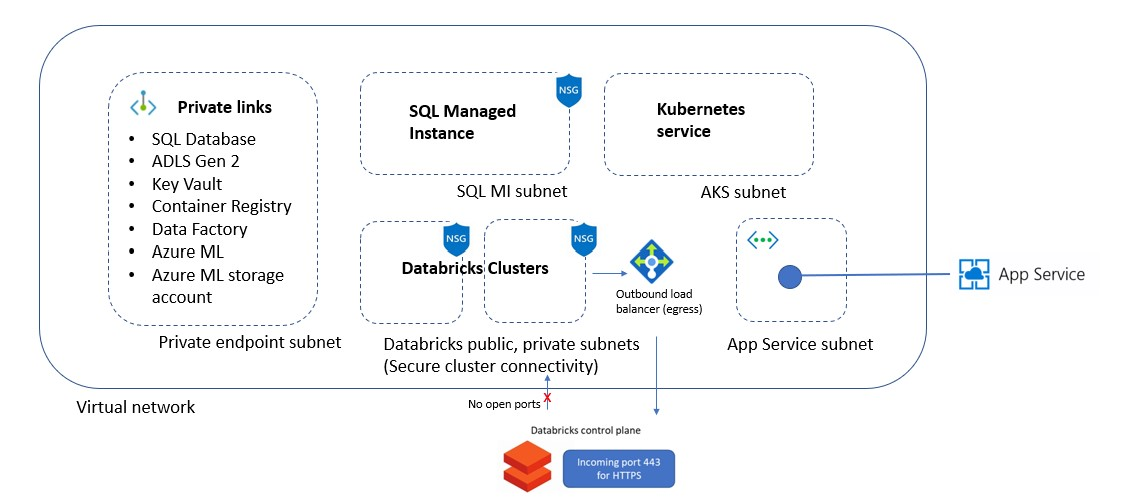
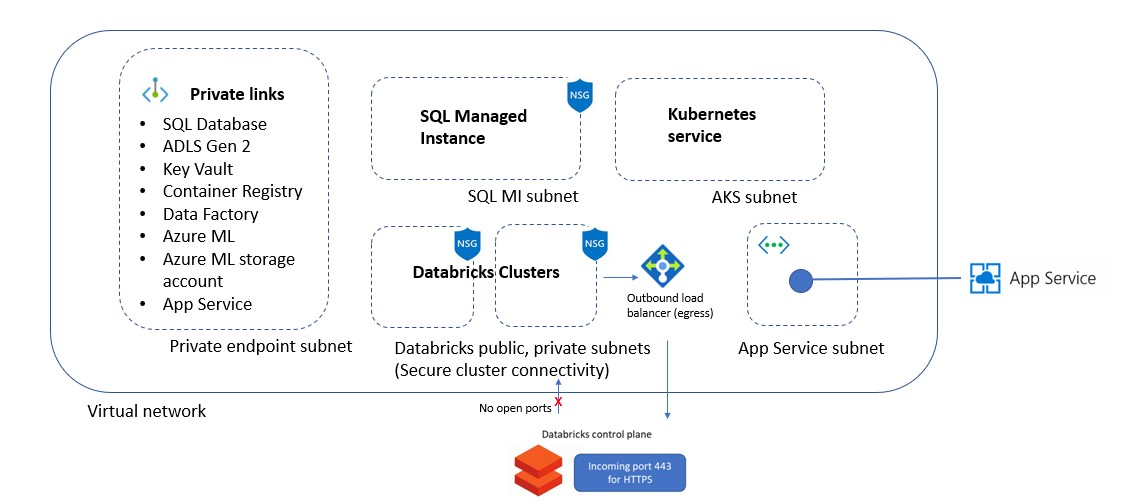
option to enable private endpoint for app service inbound

diff --git a/docs/archetypes/machinelearning.md b/docs/archetypes/machinelearning.md
@@ -131,7 +131,7 @@ Once the machine learning archetype is deployed and available to use, access con
 | Azure Storage Account for Azure ML | Network ACL deny | Private endpoint on `blob`, `file` + DNS registration to either hub or spoke | `privateEndpoints`|
 | Azure Data Factory | Public network access disabled, Azure integration runtime with managed virtual network | Private endpoint on `dataFactory` + DNS registration to either hub or spoke | `privateEndpoints`|
 | Azure Kubernetes Service | Private cluster, network profile set with either kubenet or Azure CNI | N/A | `aks`|
-| Azure App Service | Virtual Network integration | N/A | `appService` | 
+| Azure App Service | Virtual Network integration. Public network access can be disabled, using private endpoint instead | Private endpoint on `azureWebsites` + DNS registration to either hub or spoke | `appService`, `privateEndpoints` | 
 | Azure Container Registry | Network ACL deny, public network access disabled | Private endpoint on `registry` + DNS registration to either hub or spoke | `privateEndpoints`|f
 | Azure Application Insights | N/A | N/A | N/A |
 
@@ -272,7 +272,7 @@ Reference implementation uses parameter files with `object` parameters to consol
 | Deployment with AKS using Network Plugin: Azure CNI + Network Policy: Calico | [tests/schemas/lz-machinelearning/AKS-AzureCNI-Calico.json](../../tests/schemas/lz-machinelearning/AKS-AzureCNI-Calico.json) | `parameters.aks.value.networkPlugin`  equals ***azure***, `parameters.aks.value.networkPlugin`  equals ***calico***, `parameters.aks.value.podCidr` is ***empty***, `parameters.aks.value.serviceCidr` is filled, `parameters.aks.value.dnsServiceIP` is filled and `parameters.aks.value.dockerBridgeCidr`  is filled |
 | Deployment with AKS using Network Plugin: Azure CNI + Network Policy: Azure | [tests/schemas/lz-machinelearning/AKS-AzureCNI-AzureNP.json](../../tests/schemas/lz-machinelearning/AKS-AzureCNI-AzureNP.json) | `parameters.aks.value.networkPlugin`  equals ***azure***, `parameters.aks.value.networkPlugin`  equals ***azure***, `parameters.aks.value.podCidr` is ***empty***, `parameters.aks.value.serviceCidr` is filled, `parameters.aks.value.dnsServiceIP` is filled and `parameters.aks.value.dockerBridgeCidr`  is filled |
 | Deployment without Azure App Service for Linux Containers | [tests/schemas/lz-machinelearning/AppServiceLinuxContainerIsFalse.json](../../tests/schemas/lz-machinelearning/AppServiceLinuxContainerIsFalse.json) | `parameters.appServiceLinuxContainer.value.enabled` is false. |
-
+| Deployment with Azure App Service for Linux Containers without Private Endpoint| [tests/schemas/lz-machinelearning/AppServiceLinuxContainerPrivateEndpointIsFalse.json](../../tests/schemas/lz-machinelearning/AppServiceLinuxContainerPrivateEndpointIsFalse.json) | `parameters.appServiceLinuxContainer.value.enabled` is true, `parameters.appServiceLinuxContainer.value.sku{Name,Tier}` are filled, and `parameters.appServiceLinuxContainer.value.enablePrivateEndpoint` is false. |
 ### Example Deployment Parameters
 
 This example configures:
@@ -418,7 +418,8 @@ This example configures:
       "value": {
         "enabled": true,
         "skuName": "P1V2",
-        "skuTier": "Premium"
+        "skuTier": "Premium",
+        "enablePrivateEndpoint": true
       }
     },
     "aml": {

diff --git a/schemas/latest/readme.md b/schemas/latest/readme.md
@@ -2,6 +2,18 @@
 
 ## Landing Zone Schemas
 
+### January 16, 2021
+Changed `appServiceLinuxContainer` schema object to support optional inbound private endpoint.
+
+**Example**
+```json
+"appServiceLinuxContainer": {
+  "value": {
+    "enablePrivateEndpoint": true
+  }
+}
+```
+
 ### December 30, 2021
 
 Changed `aks` schema object to support optional deployment of AKS using the `enabled` key as a required field.
